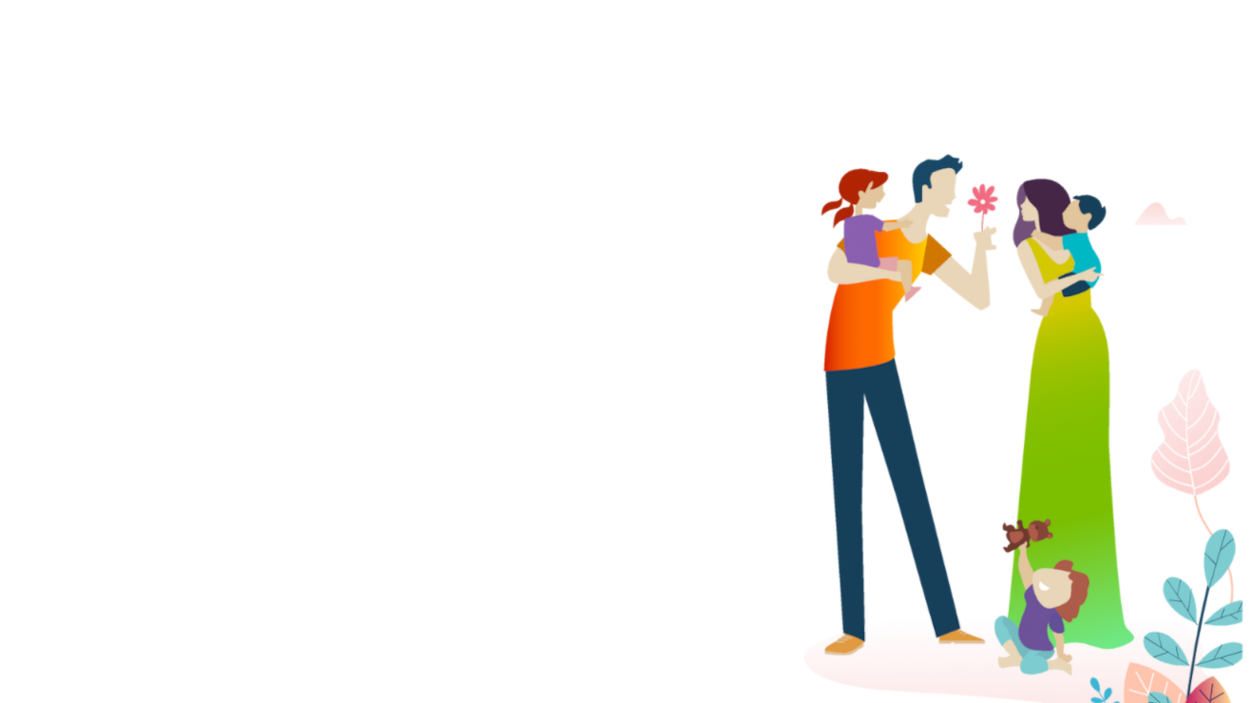
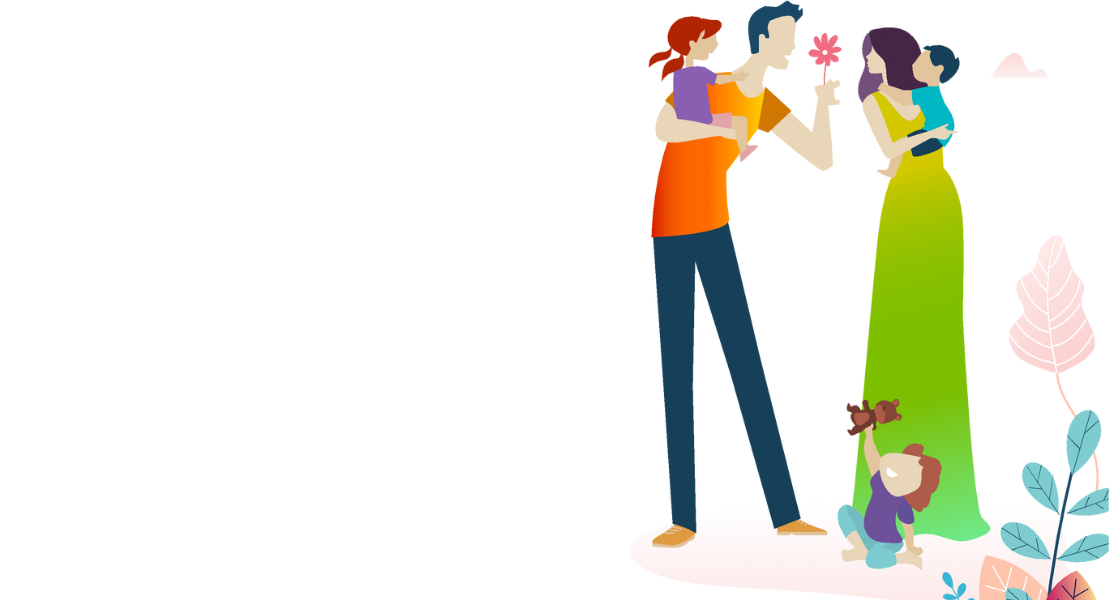
update

Changed region(s): [[0.5783, 0.0, 1.0, 1.0], [0.9132, 0.27, 0.9436, 0.33]]

diff --git a/style.css b/style.css
@@ -11,32 +11,38 @@
 }
 
 body#one{
-    background-color: rgba(255, 255, 255, 0);
+    /*background-color: rgba(255, 255, 255, 0);
    background-image: url("imagens/5C5CBEA9-8A8B-43DD-B58A-6F9B66F16FF8.png");
    background-repeat: no-repeat;
    background-position: right;
    background-size: initial;
-   position: relative; 
+   position: relative; */
 }
 header{
     background-color: rgba(255, 255, 255, 0);
     padding: 15px;
     margin: 10px;
-    
+    position: relative;
 }
 nav#inicio{
     background-color: rgba(255, 255, 255, 0);
-    padding-left: 200px;
     margin: auto;
     position: relative;
-    transform: translate(-141px, -49px);
+    transform: translate(-141px, 0px);
+    text-align: end;
 
+}
+div#nav{
+    width: 1012px;
+    height: auto;
+    position: relative;
+    transform: translate(164px, -70px);
 }
 a.home{ 
     font-family: 'Segoe UI', Tahoma, 'Geneva', Verdana, sans-serif;
     padding-left: 90px;
     font-weight: normal;
-    font-size: 25px;
+    font-size: 20px;
     text-decoration: none;
     color: blueviolet;
 
@@ -45,10 +51,6 @@ a.home:hover{
     text-decoration: none;
     color: rgb(95, 0, 184);
 
-}
-img#logo{
-    position: absolute;
-    
 }
 
 div#home{
@@ -60,7 +62,7 @@ div#home{
     color: blueviolet;
     position: relative;
     padding-left: 150px;
-    
+    transform: translate(0px, -25px);
 }
 
 p.no{
@@ -83,6 +85,11 @@ h2#id{
     font-family: 'Segoe UI', Tahoma, Geneva, Verdana, sans-serif;
     margin-bottom: -39px ;
 
+}h3#td{
+    font-size: 2.5em;
+    font-family: 'Segoe UI', Tahoma, 'Geneva', Verdana, sans-serif;
+    padding-top: 9px ;
+    padding-bottom: 40px; 
 }
 a#did{
     color: white;
@@ -105,25 +112,25 @@ a#did:hover{
     background-color: rgb(52, 236, 52);
 }
 
-h3#td{
-    font-size: 2.5em;
-    font-family: 'Segoe UI', Tahoma, 'Geneva', Verdana, sans-serif;
-    padding-top: 9px ;
-    padding-bottom: 40px;
-    
-}
 img.logo{
     display: block;
 }
+img#img{
+    position: absolute;
+    margin-top: -84px;
+    margin-left: 248px;
+}
+
+    
 
 
 /*IndexII*/
 
 body{
-    background-color: white;
+    background-color: rgba(107, 48, 166, 0);
+    
 }
 div#purple{
-
     width: 683px;
     height: 644px;
     text-align: center;
@@ -142,4 +149,12 @@ div#white{
     color: #9603b9;
     margin: auto;
 }
+img#ol{
+    display: block;
+    background-attachment: fixed;
+    background-position: left center;
+    padding-left: 10px;
+    margin-bottom: 10px;
+}
+
     

diff --git a/index.html b/index.html
@@ -14,15 +14,17 @@
         <header>
         
             <img class="logo" src="logoClubeInfinityNovoAlta.png" alt="logoClubeInfinityNovoAlta">
-            <nav id="inicio">
-                <a class="home" href="#">Quem Somos</a>
-                <a class="home" href="#">Nossos Produtos</a>
-                <a class="home" href="#">Nossos Parceiros</a>
-                <a class="home" href="#">Sejam um Afiliado</a>
-            </nav>
+            <div id="nav">
+                <nav id="inicio">
+                    <a class="home" href="#">Quem Somos</a>
+                    <a class="home" href="#">Nossos Produtos</a>
+                    <a class="home" href="#">Nossos Parceiros</a>
+                    <a class="home" href="#">Sejam um Afiliado</a>
+                </nav>
+            </div>
         </header>
         
-        
+                 <img id="img" src="imagens/familia.png" alt="lol">
                 <div id="home">
                     <h2 id="id">cuidando do que é</h2>
                     <h2 id="di">essencial</h2>

diff --git a/indexII.html b/indexII.html
@@ -11,7 +11,8 @@
 <body>
     <div id="purple" >
 
-            <img id="ol" src="imagens/BCEB13FD-BEDF-47E9-A7B3-52D9657EE4F0.png" alt="mom">
+           
+        <img src="imagens/mom.png" alt="lolo">
             <h1 id="max">Clube Infinity</h1>
         <p>
             Temos como missão garantir a proteção e a tranquilidade das pessoas, 
